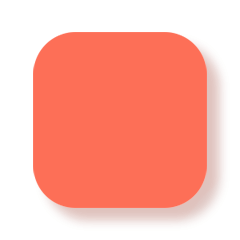
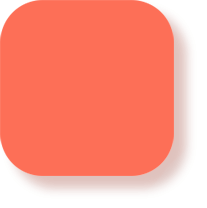
Sign up(working

Changed region(s): [[0.0, 0.0, 0.8986, 0.9231]]

diff --git a/app/assets/stylesheets/custom.scss b/app/assets/stylesheets/custom.scss
@@ -41,7 +41,7 @@ header img {
 }
 body {
     height: 125vh;
-    background-image: url("backg.jpg");
+    background-color: #fff;
     background-size: cover;
     font-family: 'Rubik';
     font-size: 20px;
@@ -78,13 +78,12 @@ header li {
 	margin-top: 50px;
 	@include box_sizing;
 }
-.user_ava {
-	float: center;
+.avacenter {
+	position: relative;
+	top: 200px;
 	text-align: center;
-
-}
-.user_ava img {
-	height: 200px;
+	margin: 5% auto;
+	padding: 3%;
 }
 .row {
 	margin: 5% auto;
@@ -97,9 +96,10 @@ header li {
 	height: 600px;
 }
 .reg {
+	color: #2d2523;
 	position: relative;
 	height: 600px;
-	background-color: #fff;
+	background-color: #eff5fa;
 	border-radius: 30px;
 	box-shadow: 10px 10px 10px rgba(0, 0, 0, 0.1);
 }
@@ -115,13 +115,15 @@ header li {
  width: 240px;
  border-radius: 0px;
  height: 120px;
- transition: all 0.2s;
+ transition: all 0.5s;
  cursor: pointer;
 }
 .regimg:hover
 {
- width: 245px;
- height: 125px;
+ background: transparent;
+ background-image: url("registerred.png");
+ background-size: cover;
+ background-position: center;
 }
 .right {
 	position: absolute;
@@ -142,13 +144,32 @@ input[type="password"]{
 	dispaly: block;
 	box-sizing: border-box;
 	margin-bottom: 10px;
+	color: #352c2f;
+	background-color: #eff5fa;
 	padding: 2px;
 	width: 220px;
 	height: 32px;
 	border: none;
+	border-radius: 10px;
 	outline: none;
-	border-bottom: 1px solid #aaa;
+	border-bottom: 0px solid #aaa;
 	font-family: "Rubik";
 	font-size: 20px;
-	transition: 0.2s ease;
+	transition: 0.1s ease;
+	box-shadow: 10px 10px 10px rgba(0, 0, 0, 0.1);
 }
+.err {
+	position: absolute;
+	top: 0px;
+	right: 0px;
+	box-sizing: border-box;
+	padding: 40px;
+	width: 500px;
+	height: 600px;
+	background-color: rgba(255, 255, 255, 0.9);
+	border-radius: 29px;
+	font-family: "Rubik";
+	color: #5e2535;
+	font-size: 25px;
+}
+

diff --git a/config/puma.rb b/config/puma.rb
@@ -4,16 +4,19 @@
 # the maximum value specified for Puma. Default is set to 5 threads for minimum
 # and maximum; this matches the default thread size of Active Record.
 #
-threads_count = ENV.fetch("RAILS_MAX_THREADS") { 5 }
+# workers Integer(ENV['WEB_CONCURRENCY'] || 2) 
+threads_count = Integer(ENV['RAILS_MAX_THREADS'] || 5)
 threads threads_count, threads_count
+preload_app!
 
+rackup      DefaultRackup
 # Specifies the `port` that Puma will listen on to receive requests; default is 3000.
 #
-port        ENV.fetch("PORT") { 3000 }
+port        ENV['PORT'] || 3000 
 
 # Specifies the `environment` that Puma will run in.
 #
-environment ENV.fetch("RAILS_ENV") { "development" }
+environment ENV['RACK_ENV'] || 'development'
 
 # Specifies the number of `workers` to boot in clustered mode.
 # Workers are forked webserver processes. If using threads and workers together
@@ -21,14 +24,19 @@ environment ENV.fetch("RAILS_ENV") { "development" }
 # Workers do not work on JRuby or Windows (both of which do not support
 # processes).
 #
-# workers ENV.fetch("WEB_CONCURRENCY") { 2 }
+
+on_worker_boot do
+
+
+ActiveRecord::Base.establish_connection
+end
 
 # Use the `preload_app!` method when specifying a `workers` number.
 # This directive tells Puma to first boot the application and load code
 # before forking the application. This takes advantage of Copy On Write
 # process behavior so workers use less memory.
 #
-# preload_app!
+
 
 # Allow puma to be restarted by `rails restart` command.
 plugin :tmp_restart

diff --git a/config/environments/production.rb b/config/environments/production.rb
@@ -1,6 +1,5 @@
 Rails.application.configure do
   # Settings specified here will take precedence over those in config/application.rb.
-
   # Code is not reloaded between requests.
   config.cache_classes = true
 
@@ -47,7 +46,7 @@ Rails.application.configure do
   # config.action_cable.allowed_request_origins = [ 'http://example.com', /http:\/\/example.*/ ]
 
   # Force all access to the app over SSL, use Strict-Transport-Security, and use secure cookies.
-  # config.force_ssl = true
+  config.force_ssl = true
 
   # Use the lowest log level to ensure availability of diagnostic information
   # when problems arise.

diff --git a/app/controllers/users_controller.rb b/app/controllers/users_controller.rb
@@ -1,8 +1,17 @@
 class UsersController < ApplicationController
   def new
-  	@user = User.create
+  	@user = User.new
   end
   def show
   	@user = User.find(params[:id])
+  end
+  def create
+  	@user = User.new(params.require(:user).permit(:name,:email,:password,:password_confirmation))
+  	if @user.save
+  		flash[:success] = "Hello"
+  		redirect_to(@user)
+  	else
+  		render '/users/new'
+  	end	
   end
 end

diff --git a/app/models/user.rb b/app/models/user.rb
@@ -1,5 +1,4 @@
 class User < ApplicationRecord
-	before_save { email.downcase! }
 	validates :name, presence: true, length: { maximum: 50 }
 	validates :email, presence: true, format: { with: /\A([^@\s]+)@((?:[-a-z0-9]+\.)+[a-z]{2,})\z/i}, uniqueness: { case_sensitive: false }
 	validates :password, presence: true, length: { minimum: 6 }
